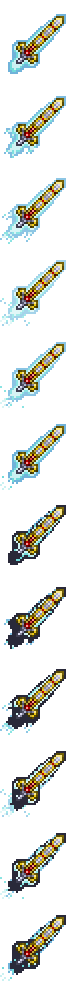
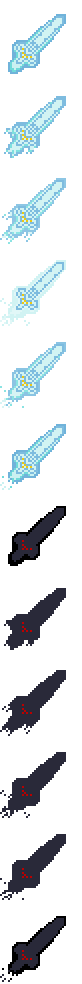
新增：更新贴图

diff --git a/Content/Projectiles/Summon/MonsterTrainMinion.cs b/Content/Projectiles/Summon/MonsterTrainMinion.cs
@@ -13,10 +13,10 @@ namespace WuDao.Content.Projectiles.Summon
     public class MonsterTrainMinion : ModProjectile
     {
         public override string Texture => $"Terraria/Images/Item_{ItemID.BeeMinecart}";
-        private const float OrbitRadius = 120f;
-        private const float OrbitAngularSpeed = 0.045f;
+        private const float OrbitRadius = 240f;
+        private const float OrbitAngularSpeed = 0.025f;
 
-        private const float FollowLerp = 0.12f;
+        private const float FollowLerp = 0.28f;
 
         private const float DashTriggerDist = 520f;
         private const float DashSpeed = 18f;
@@ -34,8 +34,8 @@ namespace WuDao.Content.Projectiles.Summon
         private const float TrainHardness = 0.25f;  // 位置纠正强度（越大越“硬”）
         private const float TrainLerp = 0.22f;      // 速度平滑（越大越跟手）
                                                     // === Hard Train Movement (no rotation) ===
-        private const float MaxSpeedX = 16f;   // 横向快
-        private const float MaxSpeedY = 4.5f;  // 纵向慢
+        private const float MaxSpeedX = 36f;   // 横向快
+        private const float MaxSpeedY = 14f;  // 纵向慢
 
         private const float AccelX = 0.35f;
         private const float AccelY = 0.10f;
@@ -47,7 +47,7 @@ namespace WuDao.Content.Projectiles.Summon
         private const float IdleFarX = 240f; // 无敌人时相对玩家左右偏移
         private const float IdleY = -30f;    // 无敌人时相对玩家高度
 
-        private const float CarSpacing = 38f;  // 车厢间距（你原来 TrainSpacing=38 可以直接复用）
+        private const float CarSpacing = 8f;  // 车厢间距（你原来 TrainSpacing=38 可以直接复用）
         // 放在类内部（字段区域）
         private static readonly int[] MinecartItemIDs = new int[]
         {
@@ -133,8 +133,8 @@ namespace WuDao.Content.Projectiles.Summon
             float desiredVx = Math.Clamp(to.X * 0.12f, -MaxSpeedX, MaxSpeedX);
             float desiredVy = Math.Clamp(to.Y * 0.10f, -MaxSpeedY, MaxSpeedY);
 
-            Projectile.velocity.X = MathHelper.Lerp(Projectile.velocity.X, desiredVx, 0.40f);
-            Projectile.velocity.Y = MathHelper.Lerp(Projectile.velocity.Y, desiredVy, 0.14f);
+            Projectile.velocity.X = MathHelper.Lerp(Projectile.velocity.X, desiredVx, 1.44f);
+            Projectile.velocity.Y = MathHelper.Lerp(Projectile.velocity.Y, desiredVy, 0.74f);
 
             Projectile.rotation = 0f;
             Projectile.spriteDirection = Projectile.direction = prev.spriteDirection;
@@ -205,54 +205,82 @@ namespace WuDao.Content.Projectiles.Summon
         }
         private void UpdateHeadMovement(Player owner, NPC target)
         {
-            // ai[0] 用作 shuttleDir（+1/-1），ai[1] 用作 nudgeDir（+1/-1）
-            if (Projectile.ai[0] == 0f)
-                Projectile.ai[0] = 1f;
-            if (Projectile.ai[1] == 0f)
-                Projectile.ai[1] = 1f;
+            // ai[0] = state, ai[1] = stateTimer
+            AIState state = (AIState)(int)Projectile.ai[0];
 
-            Vector2 anchor = (target != null) ? target.Center : owner.Center;
-
-            float farX = (target != null) ? ShuttleFarX : IdleFarX;
-            float wantX = anchor.X + Projectile.ai[0] * farX;
-            float wantY = (target != null) ? anchor.Y : (anchor.Y + IdleY);
-
-            // 有敌人：左右来回穿梭 + 硬核转向“抖一下”
-            if (target != null)
+            if (state == AIState.Dash)
             {
-                float dxToWant = wantX - Projectile.Center.X;
+                Projectile.ai[1]++;
 
-                bool nearSide = Math.Abs(dxToWant) < FlipThreshold;
-                bool passedSide = (Projectile.ai[0] > 0f && Projectile.Center.X > wantX) ||
-                                  (Projectile.ai[0] < 0f && Projectile.Center.X < wantX);
-
-                if (nearSide || passedSide)
+                if (target == null || !target.active || target.friendly || target.dontTakeDamage)
                 {
-                    Projectile.ai[0] *= -1f;   // 翻向
-                    Projectile.ai[1] *= -1f;   // 抖动方向也翻一下
-                    Projectile.velocity.Y = Projectile.ai[1] * TurnNudgeY;
+                    SwitchState(AIState.Orbit);
+                }
+                else
+                {
+                    Vector2 toTarget = target.Center - Projectile.Center;
+                    float dist = toTarget.Length();
+
+                    if (dist < OrbitRadius + 40f || Projectile.ai[1] >= DashTime)
+                    {
+                        SwitchState(AIState.Orbit);
+                    }
+                    else
+                    {
+                        toTarget.Normalize();
+                        Projectile.velocity = toTarget * DashSpeed;
+                    }
+                }
+            }
+            else // Orbit
+            {
+                Vector2 center = (target != null) ? target.Center : owner.Center;
+
+                // 轨道路径计算
+                Vector2 radial = Projectile.Center - center;
+                if (radial.LengthSquared() > 0.01f)
+                {
+                    Vector2 tangent = radial.RotatedBy(MathHelper.PiOver2);
+                    Projectile.spriteDirection = Projectile.direction = (tangent.X >= 0f) ? 1 : -1;
+                    Projectile.rotation = tangent.X * 0.02f;
                 }
 
-                // 翻向后更新 wantX
-                wantX = anchor.X + Projectile.ai[0] * farX;
+                // 环绕角度更新
+                Projectile.localAI[0] += OrbitAngularSpeed;
+                float angle = Projectile.localAI[0];
+
+                Vector2 desiredPos = center + new Vector2(OrbitRadius, 0f).RotatedBy(angle);
+                Vector2 toDesired = desiredPos - Projectile.Center;
+                Vector2 desiredVel = toDesired * 0.25f;
+                Projectile.velocity = Vector2.Lerp(Projectile.velocity, desiredVel, FollowLerp);
+
+                // 检查是否触发冲刺
+                if (target != null)
+                {
+                    float distToTarget = Vector2.Distance(Projectile.Center, target.Center);
+                    if (distToTarget > DashTriggerDist)
+                        SwitchState(AIState.Dash);
+                }
             }
 
-            // 横快竖慢追踪
-            float dx = wantX - Projectile.Center.X;
-            float dy = wantY - Projectile.Center.Y;
+            // 更新朝向和旋转
+            int cartDir = Projectile.spriteDirection;
+            if (Projectile.velocity.LengthSquared() > 0.05f)
+            {
+                cartDir = (Projectile.velocity.X >= 0f) ? 1 : -1;
+                Projectile.spriteDirection = Projectile.direction = cartDir;
+                Projectile.rotation = Projectile.velocity.ToRotation();
+            }
 
-            float desiredVx = Math.Clamp(dx * 0.08f, -MaxSpeedX, MaxSpeedX);
-            float desiredVy = Math.Clamp(dy * 0.06f, -MaxSpeedY, MaxSpeedY);
+            // 矮人朝向逻辑
+            int riderDir = cartDir;
+            if (Projectile.frameCounter > 0 && target != null && target.active)
+                riderDir = (target.Center.X >= Projectile.Center.X) ? 1 : -1;
 
-            Projectile.velocity.X = MathHelper.Lerp(Projectile.velocity.X, desiredVx, AccelX);
-            Projectile.velocity.Y = MathHelper.Lerp(Projectile.velocity.Y, desiredVy, AccelY);
+            Projectile.frame = (riderDir == 1) ? 1 : 0;
 
-            // 不旋转
-            Projectile.rotation = 0f;
-
-            // 贴图朝向：跟随水平运动方向
-            if (Math.Abs(Projectile.velocity.X) > 0.05f)
-                Projectile.spriteDirection = Projectile.direction = (Projectile.velocity.X >= 0f) ? 1 : -1;
+            if (Projectile.frameCounter > 0)
+                Projectile.frameCounter--;
         }
         private void SwitchState(AIState newState)
         {

diff --git a/Content/Items/Weapons/Summon/MonsterTrainStaff.cs b/Content/Items/Weapons/Summon/MonsterTrainStaff.cs
@@ -10,7 +10,6 @@ namespace WuDao.Content.Items.Weapons.Summon
 {
     public class MonsterTrainStaff : ModItem
     {
-        public override string Texture => $"Terraria/Images/Item_{ItemID.PygmyStaff}";
         public override void SetStaticDefaults()
         {
             ItemID.Sets.GamepadWholeScreenUseRange[Type] = true;
@@ -46,7 +45,7 @@ namespace WuDao.Content.Items.Weapons.Summon
             player.AddBuff(Item.buffType, 2);
 
             int current = player.ownedProjectileCounts[type];
-
+            Main.NewText($"当前召唤数量: {current}");
             if (current > player.maxMinions || current == 8)
                 return false;
 

diff --git a/Content/Items/Weapons/Summon/ThousandGhostBanner.cs b/Content/Items/Weapons/Summon/ThousandGhostBanner.cs
@@ -10,7 +10,6 @@ namespace WuDao.Content.Items.Weapons.Summon
 {
     public class ThousandGhostBanner : ModItem
     {
-        public override string Texture => $"Terraria/Images/Item_{ItemID.GhostBanner}";
         public override void SetStaticDefaults()
         {
             ItemID.Sets.GamepadWholeScreenUseRange[Item.type] = true; // This lets the player target anywhere on the whole screen while using a controller

diff --git a/Content/Items/Weapons/Summon/ButterflyCane.cs b/Content/Items/Weapons/Summon/ButterflyCane.cs
@@ -9,13 +9,11 @@ using WuDao.Content.Players;
 
 namespace WuDao.Content.Items.Weapons.Summon
 {
-    // TODO: 从三个buff开始往后，补充贴图
     /// <summary>
     /// 蝴蝶召唤杖
     /// </summary>
     public class ButterflyCane : ModItem
     {
-        public override string Texture => $"Terraria/Images/Item_{ItemID.GoldButterfly}";
 
         public override void SetStaticDefaults()
         {

diff --git a/Content/Buffs/AllIn.cs b/Content/Buffs/AllIn.cs
@@ -7,7 +7,6 @@ namespace WuDao.Content.Buffs
     // 孤注一掷：空背包与空饰品栏越多，伤害/移速/暴击越高，但减伤越低
     public class AllIn : ModBuff
     {
-        public override string Texture => $"Terraria/Images/Buff_{BuffID.ParryDamageBuff}";
         public override void SetStaticDefaults()
         {
             Main.debuff[Type] = true;

diff --git a/Content/Items/Weapons/Summon/GreedyWolfStaff.cs b/Content/Items/Weapons/Summon/GreedyWolfStaff.cs
@@ -9,8 +9,6 @@ namespace WuDao.Content.Items.Weapons.Summon
 {
     public class GreedyWolfStaff : ModItem
     {
-        // 这里先复用一个原版召唤杖贴图，你也可以换成自己的
-        public override string Texture => "Terraria/Images/Item_" + ItemID.SlimeStaff;
 
         public override void SetStaticDefaults()
         {

diff --git a/Content/Buffs/BarrenLand.cs b/Content/Buffs/BarrenLand.cs
@@ -7,7 +7,6 @@ namespace WuDao.Content.Buffs
     // 贫瘠之地：身上 Buff 越多，生命流失越快
     public class BarrenLand : ModBuff
     {
-        public override string Texture => $"Terraria/Images/Buff_{BuffID.ShadowCandle}";
         public override void SetStaticDefaults()
         {
             Main.debuff[Type] = true;

diff --git a/Content/Items/Weapons/Summon/FlyingSnakeStaff.cs b/Content/Items/Weapons/Summon/FlyingSnakeStaff.cs
@@ -10,7 +10,6 @@ namespace WuDao.Content.Items.Weapons.Summon
 {
     public class FlyingSnakeStaff : ModItem
     {
-        public override string Texture => $"Terraria/Images/Item_{ItemID.ImpStaff}";
         public override void SetStaticDefaults()
         {
             ItemID.Sets.GamepadWholeScreenUseRange[Item.type] = true;

diff --git a/Content/Buffs/Encumbered.cs b/Content/Buffs/Encumbered.cs
@@ -7,7 +7,6 @@ namespace WuDao.Content.Buffs
     // 重负: 背包越满，生命流失越快
     public class Encumbered : ModBuff
     {
-        public override string Texture => $"Terraria/Images/Buff_{BuffID.Slow}";
         public override void SetStaticDefaults()
         {
             Main.debuff[Type] = true;

diff --git a/Content/Items/Weapons/Summon/TaijiSwordBox.cs b/Content/Items/Weapons/Summon/TaijiSwordBox.cs
@@ -14,7 +14,6 @@ namespace WuDao.Content.Items.Weapons.Summon
     /// </summary>
     public class TaijiSwordBox : ModItem
     {
-        public override string Texture => $"Terraria/Images/Item_{ItemID.EnchantedSword}";
 
         public override void SetStaticDefaults()
         {

diff --git a/Content/Items/Weapons/Summon/DragonflyCane.cs b/Content/Items/Weapons/Summon/DragonflyCane.cs
@@ -14,7 +14,6 @@ namespace WuDao.Content.Items.Weapons.Summon
     /// </summary>
     public class DragonflyCane : ModItem
     {
-        public override string Texture => $"Terraria/Images/Item_{ItemID.BlueDragonfly}";
 
         public override void SetStaticDefaults()
         {

diff --git a/Content/Items/Weapons/Summon/BugStuff.cs b/Content/Items/Weapons/Summon/BugStuff.cs
@@ -9,7 +9,6 @@ namespace WuDao.Content.Items.Weapons.Summon
 {
     public class BugStuff : ModItem
     {
-        public override string Texture => "Terraria/Images/Item_" + ItemID.SlimeStaff;
 
         public override void SetStaticDefaults()
         {
